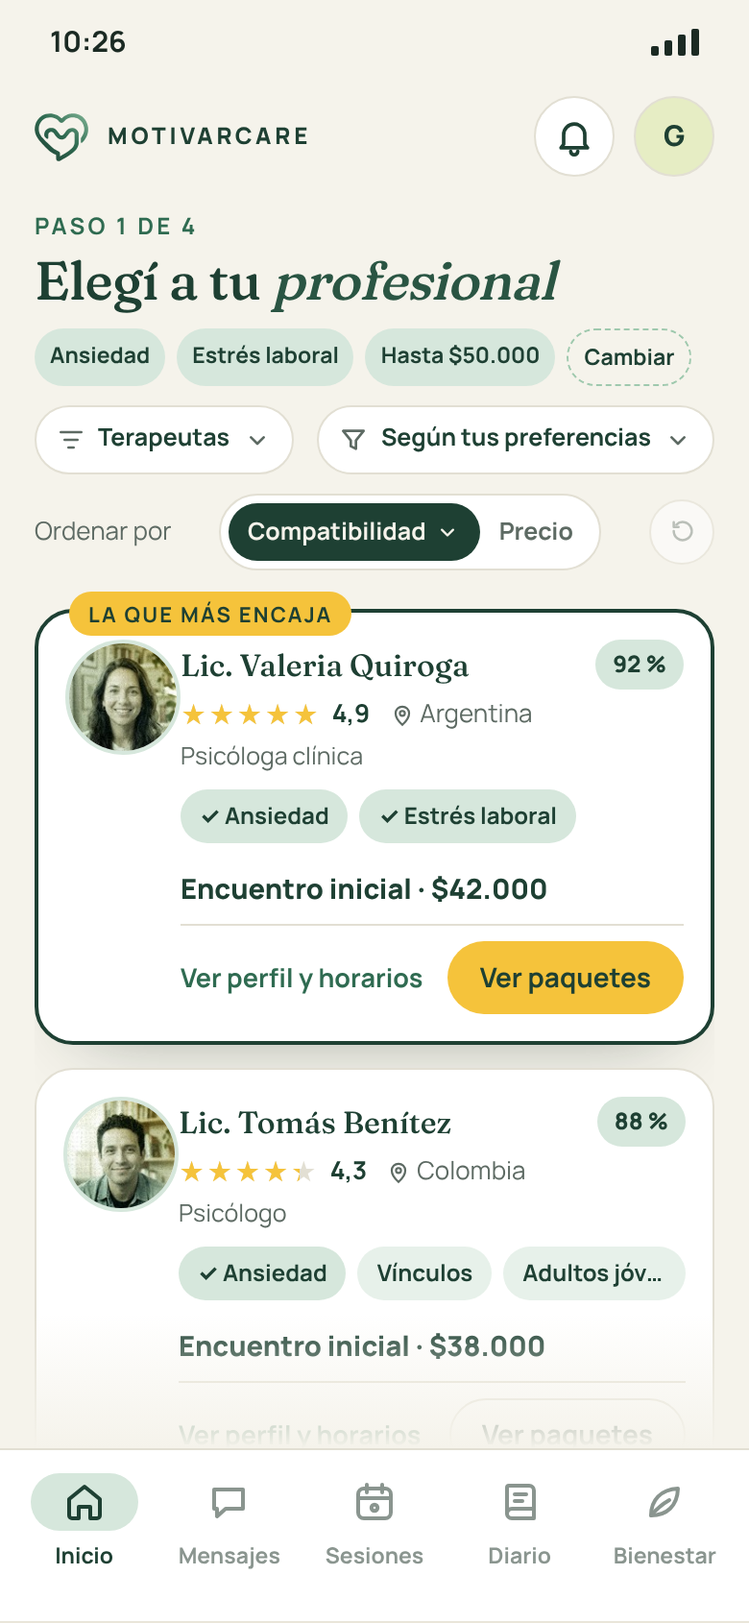
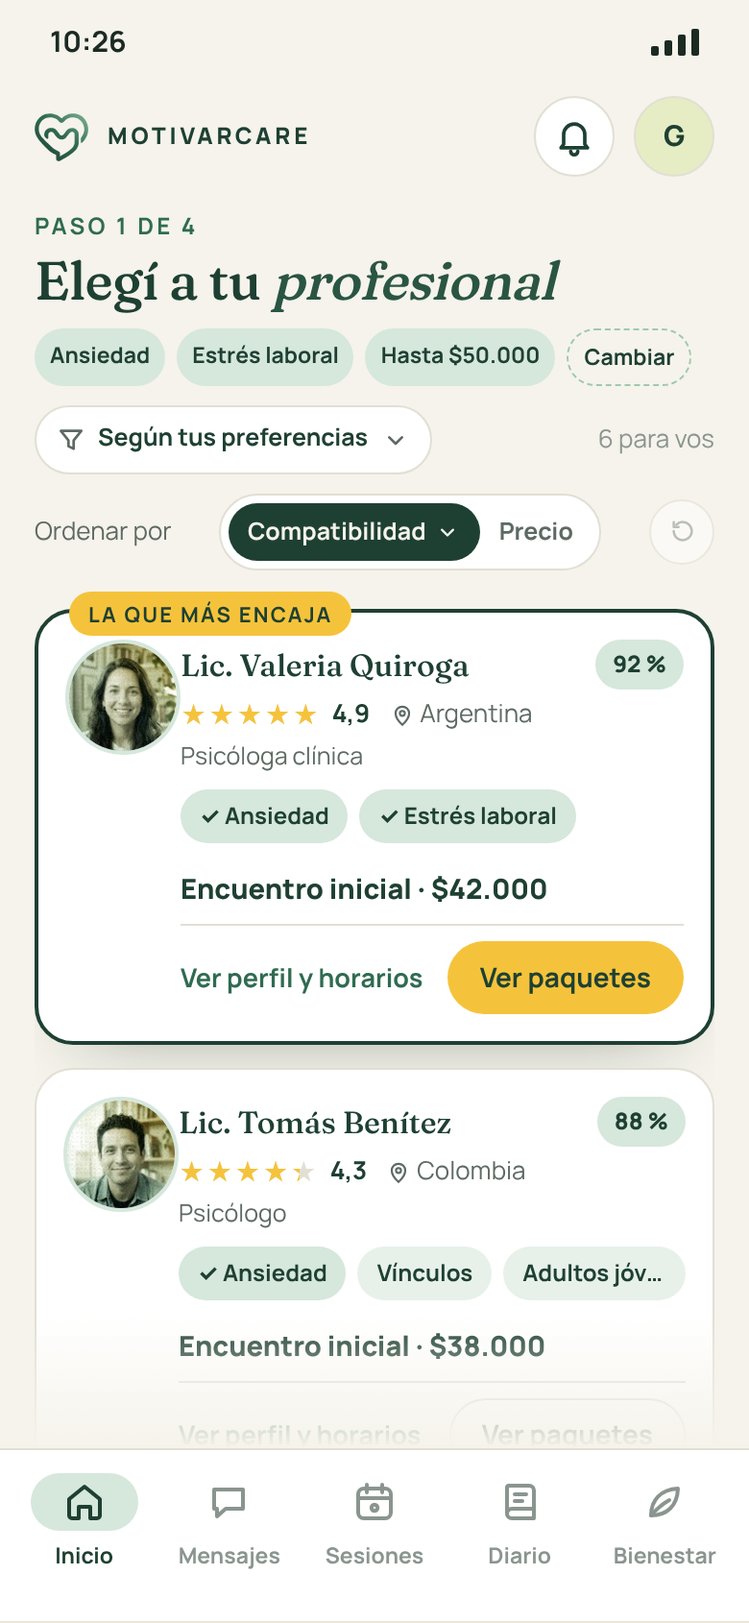
Ronda #2: Buscador sin filtro por rubro y con el menú «Filtrar» que propone solo lo no elegido
Claude-Session: https://claude.ai/code/session_01WU1DRuLLvKJwMVuiPWLics

Changed region(s): [[0.5231, 0.2462, 0.9538, 0.2769], [0.0923, 0.2462, 0.4923, 0.2769]]

diff --git a/web/public/app-usuario/ronda-2.html b/web/public/app-usuario/ronda-2.html
@@ -844,11 +844,14 @@ ul.lista-simple { padding: 0; }
 .limpiar.off { color: var(--tinta-tenue); opacity: .55; }
 .limpiar.solo-ico { width: 34px; height: 34px; justify-content: center; border-radius: 50%; border: 1px solid var(--linea); background: var(--superficie); flex: none; }
 .filtro-wrap { position: relative; display: inline-flex; }
+.op-esp.elegida-sutil .radio { border-color: var(--bosque); }
+.op-esp.elegida-sutil .radio::after { content: ''; width: 8px; height: 8px; border-radius: 50%; background: var(--bosque); }
+.el-barra.r2 { flex-wrap: nowrap; }
 .menu-filtro { left: 0; right: auto; width: 320px; }
 .el-barra.r2 .orden-wrap { margin-left: 0; }
 .el-barra.r2 .orden-wrap .menu-esp { left: 0; right: auto; }
-.el-barra.r2 .cuenta-res { order: 5; flex-basis: 0; flex-grow: 1; }
-.el-barra.r2 .limpiar { order: 6; }
+.el-barra.r2 .cuenta-res { order: 5; flex-grow: 1; min-width: 0; overflow: hidden; text-overflow: ellipsis; text-align: right; white-space: nowrap; }
+.el-barra.r2 .limpiar { order: 6; margin-left: auto; }
 .tel .fila-ctl .filtro { padding: 0 10px; gap: 6px; font-size: 12.5px; min-width: 0; }
 .tel .fila-ctl .filtro b { overflow: hidden; text-overflow: ellipsis; }
 .tag-foco { background: var(--amarillo-suave) !important; box-shadow: inset 0 0 0 1.5px var(--bosque); }
@@ -1673,8 +1676,8 @@ ul.lista-simple { padding: 0; }
       <div class="el-grid">
         <div>
           <div class="el-barra r2">
-            <span class="filtro"><svg viewBox="0 0 24 24" class="ico chico"><path d="M4 6h16M7 12h10M10 18h4"/></svg>Mostrar: <b>Terapeutas</b><svg class="ico chico"><use href="#i-abajo"/></svg></span>
-            <span class="filtro-wrap"><span class="filtro"><svg viewBox="0 0 24 24" class="ico chico"><path d="M4 5h16l-6 7.5V19l-4-2v-4.5z"/></svg>Filtrar: <b>Según tus preferencias</b><svg class="ico chico"><use href="#i-abajo"/></svg></span><div class="menu-esp menu-filtro"><span class="menu-tit">Filtrar por tipo y enfoque</span><span class="op-esp on"><i class="radio"></i><span><b>Según tus preferencias</b><small>Terapia individual y cualquier enfoque, como nos contaste</small></span></span><span class="sep-esp">Tipo de terapia</span><span class="op-esp"><i class="radio"></i>Terapia individual</span><span class="op-esp"><i class="radio"></i>Terapia de pareja</span><span class="sep-esp">Enfoque</span><span class="op-esp"><i class="radio"></i>Cognitivo-conductual</span><span class="op-esp"><i class="radio"></i>Psicodinámico o psicoanalítico</span><span class="op-esp"><i class="radio"></i>Humanista</span><span class="op-esp"><i class="radio"></i>Sistémico o familiar</span><span class="nota-esp">Se puede cambiar el tipo, el enfoque o los dos. Los terapeutas que no coinciden no se muestran. Para dar prioridad a una especialidad, usá "Ordenar por".</span></div></span><span class="tenue cuenta-res">6 terapeutas · todos con matrícula verificada</span><a class="limpiar off" title="No hay nada para limpiar"><svg class="ico chico"><use href="#i-limpiar"/></svg>Limpiar</a>
+            
+            <span class="filtro-wrap"><span class="filtro"><svg viewBox="0 0 24 24" class="ico chico"><path d="M4 5h16l-6 7.5V19l-4-2v-4.5z"/></svg>Filtrar: <b>Según tus preferencias</b><svg class="ico chico"><use href="#i-abajo"/></svg></span><div class="menu-esp menu-filtro"><span class="menu-tit">Filtrar por tipo y enfoque</span><span class="op-esp elegida-sutil"><i class="radio"></i><span><b>Según tus preferencias</b><small>Tiene en cuenta el tipo y enfoque que elegiste</small></span></span><span class="sep-esp">Sumá una terapia complementaria</span><span class="op-esp"><i class="radio"></i>Terapia de pareja</span><span class="sep-esp">¿Querés probar otro enfoque?</span><span class="op-esp"><i class="radio"></i>Psicodinámico o psicoanalítico</span><span class="op-esp"><i class="radio"></i>Humanista</span><span class="op-esp"><i class="radio"></i>Sistémico o familiar</span><span class="nota-esp">Se elige una sola opción, y es la que muestra el control. Los terapeutas que no coinciden no se muestran. Para dar prioridad a una especialidad, usá "Ordenar por".</span></div></span><span class="tenue cuenta-res">6 terapeutas</span><a class="limpiar off" title="No hay nada para limpiar"><svg class="ico chico"><use href="#i-limpiar"/></svg>Limpiar</a>
             <span class="orden-wrap"><span class="et-orden">Ordenar por</span><span class="el-orden"><span class="on">Compatibilidad<svg class="ico chico cl"><use href="#i-abajo"/></svg></span><span>Precio</span></span>
             </span>
           </div>
@@ -1733,6 +1736,7 @@ ul.lista-simple { padding: 0; }
         <aside class="tarjeta el-contaste">
           <h3>Lo que nos contaste</h3>
           <div class="grupo"><small>Querés trabajar</small><div class="el-tags"><span>Ansiedad</span><span>Estrés laboral</span></div></div>
+          <div class="grupo"><small>Tipo y enfoque</small><div class="el-tags"><span>Terapia individual</span><span>Cognitivo-conductual</span></div></div>
           <div class="grupo"><small>Tu experiencia</small><div class="el-tags"><span>Primera vez en terapia</span></div></div>
           <div class="grupo"><small>Preferís</small><div class="el-tags"><span>Por videollamada</span><span>De tarde</span></div></div>
           <div class="grupo"><small>Tu presupuesto</small><div class="el-tags"><span>Hasta $50.000 por sesión</span></div></div>
@@ -1760,7 +1764,7 @@ ul.lista-simple { padding: 0; }
   <div class="cuerpo-tel" style="gap:10px">
     <div class="saludo" style="margin:0;gap:4px"><span class="t-fecha">Paso 1 de 4</span><h1 class="t1" style="font-size:28px">Elegí a tu <em>profesional</em></h1></div>
     <div class="el-tags" style="flex-wrap:nowrap"><span>Ansiedad</span><span>Estrés laboral</span><span>Hasta $50.000</span><span style="background:transparent;border:1.5px dashed var(--salvia-fuerte)">Cambiar</span></div>
-    <div class="fila-ctl"><span class="filtro"><svg viewBox="0 0 24 24" class="ico chico"><path d="M4 6h16M7 12h10M10 18h4"/></svg><b>Terapeutas</b><svg class="ico chico"><use href="#i-abajo"/></svg></span><span class="filtro"><svg viewBox="0 0 24 24" class="ico chico"><path d="M4 5h16l-6 7.5V19l-4-2v-4.5z"/></svg><b>Según tus preferencias</b><svg class="ico chico"><use href="#i-abajo"/></svg></span></div>
+    <div class="fila-ctl"><span class="filtro"><svg viewBox="0 0 24 24" class="ico chico"><path d="M4 5h16l-6 7.5V19l-4-2v-4.5z"/></svg><b>Según tus preferencias</b><svg class="ico chico"><use href="#i-abajo"/></svg></span><span class="tenue">6 para vos</span></div>
     <div class="fila-ctl"><span class="et-orden">Ordenar por</span><span class="el-orden"><span class="on">Compatibilidad<svg class="ico chico"><use href="#i-abajo"/></svg></span><span>Precio</span></span><a class="limpiar off solo-ico" aria-label="Limpiar"><svg class="ico chico"><use href="#i-limpiar"/></svg></a></div>
     <div class="el-lista-tel"><article class="tarjeta-pro mejor"><span class="mejor-et">La que más encaja</span><img class="avatar-pro" src="../landing/img/profesionales/valeria-quiroga.jpg" alt="" width="60" height="60">
   <div class="info">
@@ -1833,8 +1837,8 @@ ul.lista-simple { padding: 0; }
       <div class="el-grid">
         <div>
           <div class="el-barra r2">
-            <span class="filtro"><svg viewBox="0 0 24 24" class="ico chico"><path d="M4 6h16M7 12h10M10 18h4"/></svg>Mostrar: <b>Terapeutas</b><svg class="ico chico"><use href="#i-abajo"/></svg></span>
-            <span class="filtro-wrap"><span class="filtro"><svg viewBox="0 0 24 24" class="ico chico"><path d="M4 5h16l-6 7.5V19l-4-2v-4.5z"/></svg>Filtrar: <b>Según tus preferencias</b><svg class="ico chico"><use href="#i-abajo"/></svg></span></span><span class="tenue cuenta-res">6 terapeutas · todos con matrícula verificada</span><a class="limpiar"><svg class="ico chico"><use href="#i-limpiar"/></svg>Limpiar</a>
+            
+            <span class="filtro-wrap"><span class="filtro"><svg viewBox="0 0 24 24" class="ico chico"><path d="M4 5h16l-6 7.5V19l-4-2v-4.5z"/></svg>Filtrar: <b>Según tus preferencias</b><svg class="ico chico"><use href="#i-abajo"/></svg></span></span><span class="tenue cuenta-res">6 terapeutas</span><a class="limpiar"><svg class="ico chico"><use href="#i-limpiar"/></svg>Limpiar</a>
             <span class="orden-wrap"><span class="et-orden">Ordenar por</span><span class="el-orden"><span class="on">Ansiedad<svg class="ico chico cl"><use href="#i-abajo"/></svg></span><span>Precio</span></span>
               <div class="menu-esp"><span class="menu-tit">Ordenar por compatibilidad</span><span class="op-esp"><i class="radio"></i><span><b>Según todas tus respuestas</b><small>Tiene en cuenta todo lo que nos contaste</small></span></span><span class="sep-esp">Dando prioridad a una especialidad · de tus respuestas</span><span class="op-esp on"><i class="radio"></i><b>Ansiedad</b></span><span class="op-esp"><i class="radio"></i><b>Estrés laboral</b></span><span class="sep-esp">Otras especialidades</span><span class="op-esp"><i class="radio"></i>Autoestima</span><span class="op-esp"><i class="radio"></i>Depresión</span><span class="op-esp"><i class="radio"></i>Duelo</span><span class="op-esp"><i class="radio"></i>Mindfulness y relajación</span><span class="op-esp"><i class="radio"></i>Sueño y descanso</span><span class="op-esp"><i class="radio"></i>Vínculos y pareja</span><span class="nota-esp">No es un filtro: los terapeutas de esa especialidad aparecen primero y los demás siguen en la lista. Al ordenar por precio, no se tiene en cuenta.</span></div>
             </span>
@@ -1894,6 +1898,7 @@ ul.lista-simple { padding: 0; }
         <aside class="tarjeta el-contaste">
           <h3>Lo que nos contaste</h3>
           <div class="grupo"><small>Querés trabajar</small><div class="el-tags"><span>Ansiedad</span><span>Estrés laboral</span></div></div>
+          <div class="grupo"><small>Tipo y enfoque</small><div class="el-tags"><span>Terapia individual</span><span>Cognitivo-conductual</span></div></div>
           <div class="grupo"><small>Tu experiencia</small><div class="el-tags"><span>Primera vez en terapia</span></div></div>
           <div class="grupo"><small>Preferís</small><div class="el-tags"><span>Por videollamada</span><span>De tarde</span></div></div>
           <div class="grupo"><small>Tu presupuesto</small><div class="el-tags"><span>Hasta $50.000 por sesión</span></div></div>
@@ -1921,7 +1926,7 @@ ul.lista-simple { padding: 0; }
   <div class="cuerpo-tel" style="gap:10px">
     <div class="saludo" style="margin:0;gap:4px"><span class="t-fecha">Paso 1 de 4</span><h1 class="t1" style="font-size:28px">Elegí a tu <em>profesional</em></h1></div>
     <div class="el-tags" style="flex-wrap:nowrap"><span>Ansiedad</span><span>Estrés laboral</span><span>Hasta $50.000</span><span style="background:transparent;border:1.5px dashed var(--salvia-fuerte)">Cambiar</span></div>
-    <div class="fila-ctl"><span class="filtro"><svg viewBox="0 0 24 24" class="ico chico"><path d="M4 6h16M7 12h10M10 18h4"/></svg><b>Terapeutas</b><svg class="ico chico"><use href="#i-abajo"/></svg></span><span class="filtro"><svg viewBox="0 0 24 24" class="ico chico"><path d="M4 5h16l-6 7.5V19l-4-2v-4.5z"/></svg><b>Según tus preferencias</b><svg class="ico chico"><use href="#i-abajo"/></svg></span></div>
+    <div class="fila-ctl"><span class="filtro"><svg viewBox="0 0 24 24" class="ico chico"><path d="M4 5h16l-6 7.5V19l-4-2v-4.5z"/></svg><b>Según tus preferencias</b><svg class="ico chico"><use href="#i-abajo"/></svg></span><span class="tenue">6 para vos</span></div>
     <div class="fila-ctl"><span class="et-orden">Ordenar por</span><span class="el-orden"><span class="on">Ansiedad<svg class="ico chico"><use href="#i-abajo"/></svg></span><span>Precio</span></span><a class="limpiar solo-ico" aria-label="Limpiar"><svg class="ico chico"><use href="#i-limpiar"/></svg></a></div>
     <div class="el-lista-tel"><article class="tarjeta-pro mejor"><span class="mejor-et">La que más encaja</span><img class="avatar-pro" src="../landing/img/profesionales/valeria-quiroga.jpg" alt="" width="60" height="60">
   <div class="info">
@@ -2063,8 +2068,8 @@ ul.lista-simple { padding: 0; }
       <div class="el-grid">
         <div>
           <div class="el-barra r2">
-            <span class="filtro"><svg viewBox="0 0 24 24" class="ico chico"><path d="M4 6h16M7 12h10M10 18h4"/></svg>Mostrar: <b>Terapeutas</b><svg class="ico chico"><use href="#i-abajo"/></svg></span>
-            <span class="filtro-wrap"><span class="filtro"><svg viewBox="0 0 24 24" class="ico chico"><path d="M4 5h16l-6 7.5V19l-4-2v-4.5z"/></svg>Filtrar: <b>Según tus preferencias</b><svg class="ico chico"><use href="#i-abajo"/></svg></span></span><span class="tenue cuenta-res">5 terapeutas · sin contar a Valeria</span><a class="limpiar"><svg class="ico chico"><use href="#i-limpiar"/></svg>Limpiar</a>
+            
+            <span class="filtro-wrap"><span class="filtro"><svg viewBox="0 0 24 24" class="ico chico"><path d="M4 5h16l-6 7.5V19l-4-2v-4.5z"/></svg>Filtrar: <b>Según tus preferencias</b><svg class="ico chico"><use href="#i-abajo"/></svg></span></span><a class="limpiar"><svg class="ico chico"><use href="#i-limpiar"/></svg>Limpiar</a>
             <span class="orden-wrap"><span class="et-orden">Ordenar por</span><span class="el-orden"><span class="on">Mindfulness y relajación<svg class="ico chico cl"><use href="#i-abajo"/></svg></span><span>Precio</span></span>
               
             </span>
@@ -2140,7 +2145,7 @@ ul.lista-simple { padding: 0; }
   <div class="cuerpo-tel" style="gap:10px">
     <a class="volver-tel"><svg class="ico chico"><use href="#i-atras"/></svg>Volver al inicio</a><div class="saludo" style="margin:0;gap:4px"><span class="t-fecha">Para complementar tu proceso</span><h1 class="t1" style="font-size:28px">Sumá un <em>terapeuta</em></h1></div>
     <div class="el-tags" style="flex-wrap:nowrap"><span class="tag-foco">Mindfulness y relajación</span><span>Individual</span><span>Ansiedad</span><span>Estrés laboral</span></div>
-    <div class="fila-ctl"><span class="filtro"><svg viewBox="0 0 24 24" class="ico chico"><path d="M4 6h16M7 12h10M10 18h4"/></svg><b>Terapeutas</b><svg class="ico chico"><use href="#i-abajo"/></svg></span><span class="filtro"><svg viewBox="0 0 24 24" class="ico chico"><path d="M4 5h16l-6 7.5V19l-4-2v-4.5z"/></svg><b>Según tus preferencias</b><svg class="ico chico"><use href="#i-abajo"/></svg></span></div>
+    <div class="fila-ctl"><span class="filtro"><svg viewBox="0 0 24 24" class="ico chico"><path d="M4 5h16l-6 7.5V19l-4-2v-4.5z"/></svg><b>Según tus preferencias</b><svg class="ico chico"><use href="#i-abajo"/></svg></span><span class="tenue">5 para vos</span></div>
     <div class="fila-ctl"><span class="et-orden">Ordenar por</span><span class="el-orden"><span class="on">Mindfulness y relajación<svg class="ico chico"><use href="#i-abajo"/></svg></span><span>Precio</span></span><a class="limpiar solo-ico" aria-label="Limpiar"><svg class="ico chico"><use href="#i-limpiar"/></svg></a></div>
     <div class="el-lista-tel"><article class="tarjeta-pro mejor"><span class="mejor-et">La que más encaja</span><span class="avatar-pro ini" style="font-size:17px">PR</span>
   <div class="info">

diff --git a/06-app-usuario/historial/ronda-2.md b/06-app-usuario/historial/ronda-2.md
@@ -99,7 +99,6 @@ Cada mockup se hace en escritorio (1440 × 1024) y en teléfono (390 de ancho). 
     <h3>Elegí a tu profesional · la primera vez</h3>
     <p>Cómo se ve al llegar, sin cambiar nada:</p>
     <ul>
-      <li>"Mostrar: Terapeutas", la única opción por ahora.</li>
       <li>"Filtrar: Según tus preferencias", con el menú abierto: el tipo de terapia y el enfoque.</li>
       <li>"Ordenar por: Compatibilidad", con "Según todas tus respuestas" elegido, y "Limpiar" apagado porque no hay nada que limpiar.</li>
     </ul>
@@ -115,7 +114,6 @@ Cada mockup se hace en escritorio (1440 × 1024) y en teléfono (390 de ancho). 
     <p>Parte de la elección de la familia 2 y mantiene el panel "Lo que nos contaste", con "Cambiar mis respuestas". Suma:</p>
     <ul>
       <li>Dos criterios de orden: <strong>compatibilidad</strong> y <strong>precio</strong>. Al elegir una especialidad en el menú de compatibilidad, el control pasa a decir su nombre ("Ansiedad") y sus terapeutas van primero, sin filtrar.</li>
-      <li>El filtro <strong>"Mostrar"</strong>, hoy solo con terapeutas, preparado para otros profesionales.</li>
       <li>El filtro <strong>"Filtrar"</strong>, por tipo de terapia y enfoque, que por defecto dice "Según tus preferencias".</li>
       <li>"<strong>Limpiar</strong>", que vuelve el filtro y el orden a su estado inicial.</li>
     </ul>
@@ -256,7 +254,7 @@ Combina la familia 2 (la agenda y la sesión mandan) con la posibilidad de traba
 
 ## 5 y 6 · Elegí a tu profesional
 
-Toma como punto de partida la elección de profesional de la familia 2 ([Ronda #1](/06-app-usuario/historial/ronda-1/)), con la navegación de esta ronda. Es el paso 1 de la primera sesión, al que se llega desde "Ver terapeutas" en el Inicio sin profesional (mockup 3). El título es "Elegí a tu profesional": el tipo de profesional lo define el filtro "Mostrar", que por ahora solo tiene terapeutas. Son dos mockups del mismo listado: el **5**, como se ve la primera vez, sin cambiar el orden ni el filtro, y el **6**, con prioridad a una especialidad.
+Toma como punto de partida la elección de profesional de la familia 2 ([Ronda #1](/06-app-usuario/historial/ronda-1/)), con la navegación de esta ronda. Es el paso 1 de la primera sesión, al que se llega desde "Ver terapeutas" en el Inicio sin profesional (mockup 3). El título es "Elegí a tu profesional"; por ahora todos son terapeutas (el filtro por rubro se sacó el 14/11). Son dos mockups del mismo listado: el **5**, como se ve la primera vez, sin cambiar el orden ni el filtro, y el **6**, con prioridad a una especialidad.
 
 - **"Lo que nos contaste"** se mantiene a la derecha: las respuestas del cuestionario agrupadas (qué querés trabajar, tu experiencia, tus preferencias y tu presupuesto) y "Cambiar mis respuestas". En el teléfono, las respuestas van arriba como pills, con "Cambiar".
 - **Ordenar por: Compatibilidad ▾ · Precio.** La especialidad no es un criterio aparte: es una forma de la compatibilidad, y **el menú de "Compatibilidad" es el único lugar para elegirla**.
@@ -266,9 +264,8 @@ Toma como punto de partida la elección de profesional de la familia 2 ([Ronda #
   - El menú muestra primero las especialidades de tus respuestas y después las demás.
   - **Al ordenar por precio**, la especialidad elegida no se tiene en cuenta: el precio ordena a todos por igual.
   - **Mockup 5:** el estado por defecto (en el escritorio, con el menú de "Filtrar" abierto). **Mockup 6:** con "Ansiedad" elegida; en el escritorio, con el menú de orden abierto.
-- **Filtro "Filtrar":** al lado de "Mostrar", con el mismo comportamiento que "Ordenar por" (ver los ajustes del 14/11).
+- **Filtro "Filtrar":** a la izquierda de "Ordenar por", en la misma fila, con el mismo comportamiento que "Ordenar por" (ver los ajustes del 14/11).
 - **"Limpiar"**, en la misma barra, vuelve el filtro y el orden a su estado inicial. Está apagado (gris) cuando no hay nada que limpiar; en el teléfono es solo el ícono.
-- **Filtro "Mostrar":** a la izquierda, "Mostrar: Terapeutas". En esta etapa es la única opción, pero queda preparado para sumar otras categorías de profesionales (por ejemplo, nutricionistas).
 - **Tarjetas de los terapeutas,** con las reglas de esta ronda:
   - La profesión en su propia línea ("Psicóloga clínica") y las especialidades en pills, en una sola línea. Las que coinciden con tus respuestas llevan "✓" y fondo salvia; la especialidad elegida para ordenar se resalta en amarillo suave con borde.
   - El precio es el del **encuentro inicial** ("Encuentro inicial · $42.000"), y el panel aclara que los paquetes se eligen después, con el terapeuta elegido.
@@ -280,14 +277,20 @@ Toma como punto de partida la elección de profesional de la familia 2 ([Ronda #
 El Buscador de profesionales puede abrirse desde el Cross-selling de profesionales con criterios ya cargados. Se probó un solo panel, "Buscar y ordenar por", con la modalidad, la especialidad y el enfoque, pero mezclar en un mismo control lo que filtra y lo que ordena resultaba confuso. Quedó así:
 
 - **"Ordenar por"** sigue como estaba: compatibilidad (según todas tus respuestas o con prioridad a una especialidad) o precio. Al menú se suman "Mindfulness y relajación" y "Sueño y descanso" entre las otras especialidades, porque el cross-selling las ofrece.
-- **Nuevo control "Filtrar"**, al lado de "Mostrar", que se comporta igual que "Ordenar por":
+- **Nuevo control "Filtrar"**, que se comporta igual que "Ordenar por":
   - Por defecto dice **"Según tus preferencias"**: el tipo de terapia del cuestionario y cualquier enfoque.
-  - En el menú, debajo, se puede cambiar el **tipo de terapia** (individual o de pareja), el **enfoque** (cognitivo-conductual, psicodinámico o psicoanalítico, humanista, sistémico o familiar) o los dos. Con algo elegido, el control dice lo elegido (por ejemplo, "Terapia de pareja").
+  - Arriba, igual que en el menú de orden y sin fondo de color: **"Según tus preferencias"**, con "Tiene en cuenta el tipo y enfoque que elegiste". Es la opción para quedarse con lo elegido en el cuestionario.
+  - Debajo, **solo lo que todavía no eligió**:
+    - "**Sumá una terapia complementaria**", con el tipo de terapia que no eligió (si eligió individual, "Terapia de pareja", y al revés).
+    - "**¿Querés probar otro enfoque?**", con los enfoques que no eligió (en el ejemplo, eligió cognitivo-conductual: psicodinámico o psicoanalítico, humanista y sistémico o familiar).
+  - Se elige **una sola opción**, y es la que muestra el control cerrado (por ejemplo, "Terapia de pareja").
+  - "Lo que nos contaste" suma el grupo "Tipo y enfoque" (Terapia individual, Cognitivo-conductual).
   - A diferencia del orden, el filtro sí saca de la lista a quienes no coinciden; la nota del menú lo aclara y remite a "Ordenar por" para dar prioridad a una especialidad.
 - **"Limpiar"**, con un ícono de flecha circular, vuelve el filtro y el orden a su estado inicial.
 - **Desde el cross-selling:** "Terapia de pareja" abre el buscador con ese tipo en "Filtrar"; una especialidad, con ella en "Ordenar por"; "Ver otros enfoques", con el menú de "Filtrar" abierto en el enfoque.
 - **Nueva variante del mockup 6:** el buscador abierto desde "Mindfulness y relajación". Cambia el encabezado ("Volver al inicio", "Para complementar tu proceso", "Sumá un terapeuta"), la lista no incluye al terapeuta actual y el panel de la derecha pasa a ser "Lo que buscás", con lo elegido, el terapeuta actual y la aclaración de que cada terapeuta se contrata por separado, empezando con un encuentro inicial.
 - **Mockup 5:** con el menú de "Filtrar" abierto, para mostrar sus opciones.
+- **Sin el filtro por rubro.** Se saca "Mostrar: Terapeutas": por ahora no va a haber muchos profesionales de otros rubros y ocupaba un lugar innecesario. Así, "Filtrar", "Ordenar por", la cantidad de terapeutas y "Limpiar" entran en una sola fila en el escritorio.
 
 ## 7 · Contratación: elegí tu paquete
 
@@ -332,7 +335,7 @@ Una de las decisiones de esta ronda es trabajar con **pocos componentes, robusto
 | [![Cabecera guía](/img/app-usuario/ronda-2/componentes/cabecera-guia.jpg)](/img/app-usuario/ronda-2/componentes/cabecera-guia.jpg) | **Cabecera guía** | Encabezar el Inicio con una tarjeta verde salvia que dice lo que la persona tiene que hacer ahora, con un único botón amarillo. Responde siempre "¿qué tengo que hacer ahora?". | Inicio con profesional (mockups 1, 2 y 4). | Sesión por empezar ("Entrar a la sesión", "Reprogramar"); sin turnos (próximos horarios libres y "Reservar sesión"). |
 | [![Primeros pasos](/img/app-usuario/ronda-2/componentes/primeros-pasos.jpg)](/img/app-usuario/ronda-2/componentes/primeros-pasos.jpg) | **Primeros pasos** | Guiar al usuario nuevo hacia su primera sesión: una tarjeta verde bosque con los cuatro pasos (el actual en amarillo, los pendientes punteados), "Ver terapeutas" y la aclaración de precios. | Inicio sin profesional (mockup 3). | — |
 | [![Ficha del profesional](/img/app-usuario/ronda-2/componentes/ficha-profesional.jpg)](/img/app-usuario/ronda-2/componentes/ficha-profesional.jpg) | **Ficha del profesional** | Decir siempre con quién se hace, se paga o se reserva: foto, nombre, calificación y país, especialidades, credenciales y acciones. En esta fase todos son terapeutas (en pantalla dice "Tu terapeuta"). | Inicio (mockups 1, 2 y 4), Buscador de profesionales (mockups 5 y 6), contratación (mockup 7) y reserva (mockup 8). | Completa (con el mensaje sin leer y las sesiones disponibles, con "Comprar más sesiones" cuando ya se usó la mitad del paquete, en verde bosque si queda 1 o ninguna; abajo, separados por una línea, "Escribile" y "Contanos cómo te va", de contorno con un corazón verde bosque; "Ver perfil" arriba a la derecha); con **selector de profesionales** (pastillas con avisos de sesiones y mensajes, el principal primero); resumida (dentro del Resumen de contratación); compacta (teléfono); **resultado de búsqueda** (en el Buscador de profesionales, con las especialidades que coinciden, el precio del encuentro inicial, "Ver perfil y horarios" y "Ver paquetes"). |
-| [![Buscador de profesionales](/img/app-usuario/ronda-2/componentes/buscador-profesionales.jpg)](/img/app-usuario/ronda-2/componentes/buscador-profesionales.jpg) | **Buscador de profesionales** | Encontrar y elegir un profesional: la lista de fichas (resultados de búsqueda), el orden por compatibilidad (con prioridad a una especialidad) o por precio, el filtro por tipo de terapia y enfoque ("Según tus preferencias" por defecto), "Limpiar", el filtro "Mostrar" por categoría de profesional y el panel "Lo que nos contaste", con "Cambiar mis respuestas". | Elección de profesional (mockups 5 y 6), desde "Ver terapeutas" (mockup 3) o desde el Cross-selling de profesionales, con los filtros cargados. | Por defecto ("Compatibilidad", según todas tus respuestas) o con una especialidad elegida (el control dice su nombre); abierto desde el cross-selling ("Sumá un terapeuta", sin el terapeuta actual, con "Lo que buscás"); menús desplegables (escritorio) u hoja desde abajo (teléfono); escritorio (panel a la derecha) y teléfono (respuestas como pills). |
+| [![Buscador de profesionales](/img/app-usuario/ronda-2/componentes/buscador-profesionales.jpg)](/img/app-usuario/ronda-2/componentes/buscador-profesionales.jpg) | **Buscador de profesionales** | Encontrar y elegir un profesional: la lista de fichas (resultados de búsqueda), el orden por compatibilidad (con prioridad a una especialidad) o por precio, el filtro por tipo de terapia y enfoque ("Según tus preferencias" por defecto), "Limpiar" y el panel "Lo que nos contaste", con "Cambiar mis respuestas". | Elección de profesional (mockups 5 y 6), desde "Ver terapeutas" (mockup 3) o desde el Cross-selling de profesionales, con los filtros cargados. | Por defecto ("Compatibilidad", según todas tus respuestas) o con una especialidad elegida (el control dice su nombre); abierto desde el cross-selling ("Sumá un terapeuta", sin el terapeuta actual, con "Lo que buscás"); menús desplegables (escritorio) u hoja desde abajo (teléfono); escritorio (panel a la derecha) y teléfono (respuestas como pills). |
 | [![Selector de paquetes](/img/app-usuario/ronda-2/componentes/selector-paquetes.jpg)](/img/app-usuario/ronda-2/componentes/selector-paquetes.jpg) | **Selector de paquetes** | Elegir qué contratar con un profesional: el encuentro inicial o un paquete, con su precio, su ahorro y el precio por sesión, y la opción de usar un código de descuento. | Contratación (mockup 7), desde "Ver paquetes" o "Comprar más sesiones". | Primera vez con ese profesional (el encuentro inicial recomendado y elegido por defecto) o ya con sesiones previas (los paquetes primero). |
 | [![Resumen de contratación](/img/app-usuario/ronda-2/componentes/resumen-contratacion.jpg)](/img/app-usuario/ronda-2/componentes/resumen-contratacion.jpg) | **Resumen de contratación** | Responder, junto a la acción, con quién, qué y cuánto: contiene la Ficha del profesional (variante resumida), las aclaraciones del servicio (videollamada de 50 minutos y reprogramación sin costo hasta 24 h antes), el desglose y el total, y el botón amarillo con su aclaración. | Contratación (mockup 7) y reserva (mockup 8). | **Contratación** (desglose, total y "Continuar al pago", con "Es el monto exacto que vas a ver en el pago"); **reserva** ("Tu sesión" con el día y la hora elegidos, y "Reservar sesión", "Reservar y proceder al pago" o "Reprogramar sesión"); columna derecha (escritorio) o barra fija (teléfono). |
 | [![Agenda semanal resumida](/img/app-usuario/ronda-2/componentes/agenda-semanal.jpg)](/img/app-usuario/ronda-2/componentes/agenda-semanal.jpg) | **Agenda semanal resumida** | Mostrar de un vistazo la semana: sesiones, horarios libres, ejercicios y diario, con "Ver sesiones" para ir a la página de Sesiones. | Inicio con profesional (mockups 1, 2 y 4). | Un profesional o varios (cada uno con su color); con sesiones o con horarios libres punteados; escritorio (nombre y horario en cada día) y teléfono (foto o punto). |
@@ -360,7 +363,7 @@ En los mockups:
 ### Compatibilidad y especialidad, un solo criterio (13/11)
 
 En la primera versión del mockup 5, "Especialidad" era un tercer criterio de orden. En su estado por defecto ("todas, según tus respuestas") ordenaba igual que la compatibilidad, así que se combinaron: **la prioridad a una especialidad es una opción dentro de "Compatibilidad"**, con accesos directos debajo de la barra. Al ordenar por precio, la prioridad no se tiene en cuenta.
-- El título pasa a "Elegí a tu profesional": "Terapeutas" ya está elegido en el filtro "Mostrar", que por ahora no tiene otras opciones.
+- El título pasa a "Elegí a tu profesional": "Terapeutas" ya está elegido en el filtro "Mostrar", que por ahora no tiene otras opciones (el 14/11 ese filtro se saca).
 - Se suma el **mockup 5**, el mismo listado como se ve la primera vez (sin orden ni filtro cambiados). El de la prioridad a una especialidad pasa a ser el **mockup 6**.
 - **Sin accesos directos.** Se sacan las pills "Dar prioridad a:" de los mockups 5 y 6: duplicaban el menú, y "Otra…" solo volvía a abrirlo. El menú de "Compatibilidad" es el único lugar para dar prioridad a una especialidad. Con una especialidad elegida, el control dice su nombre ("Ansiedad"); al volver a "Según todas tus respuestas", vuelve a decir "Compatibilidad".
 - En las tarjetas de los terapeutas, el botón "Elegir" pasa a ser **"Ver paquetes"**, junto al enlace "Ver perfil y horarios", para alentar a contratar y pagar lo antes posible.
@@ -380,7 +383,7 @@ Las sugerencias se ordenan en cuatro niveles, de lo más cercano a lo más ampli
 3. **Otro enfoque.** El enfoque terapéutico es el método con el que trabaja el terapeuta: cognitivo-conductual (TCC), psicodinámico o psicoanalítico, humanista, sistémico o familiar, entre otros. Se llama "**enfoque**" para no confundirlo con el tipo de terapia (individual o de pareja). No va como pills: es un apartado que dice con qué enfoque trabaja hoy ("Hoy trabajás con terapia cognitivo-conductual") y pregunta si quiere conocer otros, con "Ver otros enfoques".
 4. **Otros profesionales:** otras categorías, como Nutrición y Psicopedagogía, en pills con **contorno punteado** y la aclaración **"Próximamente"**, mientras en esta fase solo haya psicólogos.
 
-Cada opción lleva a "Elegí a tu profesional" con los filtros ya cargados: la modalidad, la especialidad como prioridad en "Compatibilidad", el enfoque o la categoría en "Mostrar". Desde el 14/11, el Buscador de profesionales tiene el control "Filtrar" para el tipo de terapia y el enfoque; la especialidad sigue en "Ordenar por".
+Cada opción lleva a "Elegí a tu profesional" con los filtros ya cargados: la modalidad, la especialidad como prioridad en "Compatibilidad", el enfoque o, más adelante, la categoría de profesional. Desde el 14/11, el Buscador de profesionales tiene el control "Filtrar" para el tipo de terapia y el enfoque; la especialidad sigue en "Ordenar por".
 - **"Buscar otro profesional"**, al final, para buscar sin sugerencias.
 - Mantiene el borde punteado (lo que todavía está por sumar) y no usa amarillo, para no competir con la sesión.
 - **No aparece en el mockup 3** (sin terapeuta): ahí no hay nada que complementar, y la acción principal ya es "Ver terapeutas".
